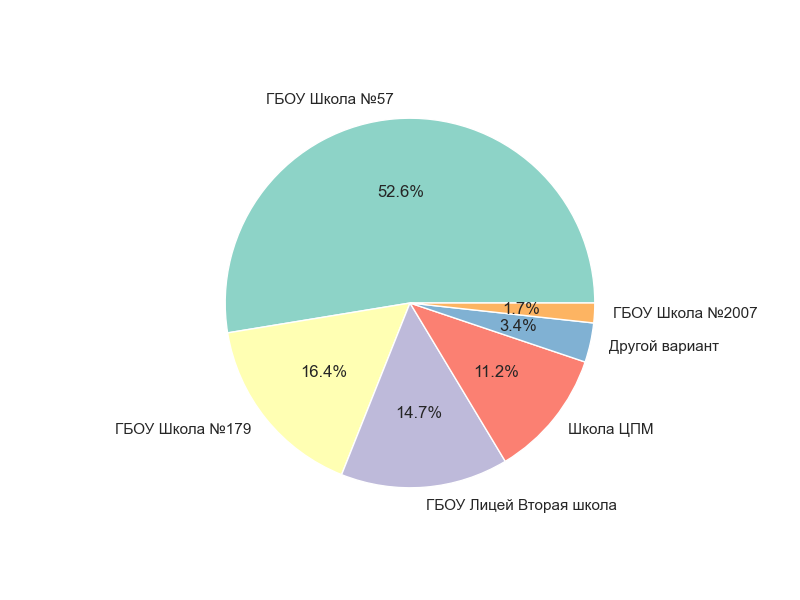
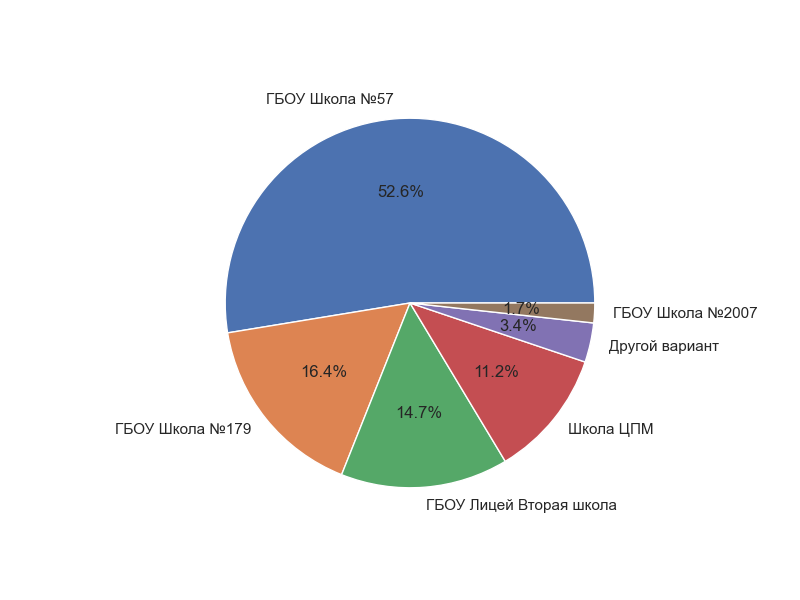
working on receiving propper responses

Changed region(s): [[0.2812, 0.18, 0.75, 0.81]]

diff --git a/test.py b/test.py
@@ -1,18 +1,14 @@
 import pandas as pd
-from models import Person
 import seaborn as sns
 import matplotlib.pyplot as plt
 
 
 df = pd.read_csv('data.csv', sep=',')
 param = 'GPA'
-for main in ['sex', 'cleaner', 'grade', 'residents', 'room_type', 'school']:
-        sns.set(style="whitegrid")
-        plt.figure(figsize=(8, 6))
-        sns.set_palette("Set3")
-        tips = sns.load_dataset("tips")
-        sns.set(style="whitegrid")
-        sns.kdeplot(df, x=param, fill=True)
-        plt.ylabel("")
-        plt.savefig(f'static/assets/img/graph_kde')
+plt.figure(figsize=(8, 6))
+sns.set(style="whitegrid")
+df['sex'].value_counts().plot(kind='pie', autopct='%1.1f%%', legend=False)
+plt.ylabel('')
+plt.savefig(f'static/assets/img/graph_pie_sex.png')
+plt.show()
 
